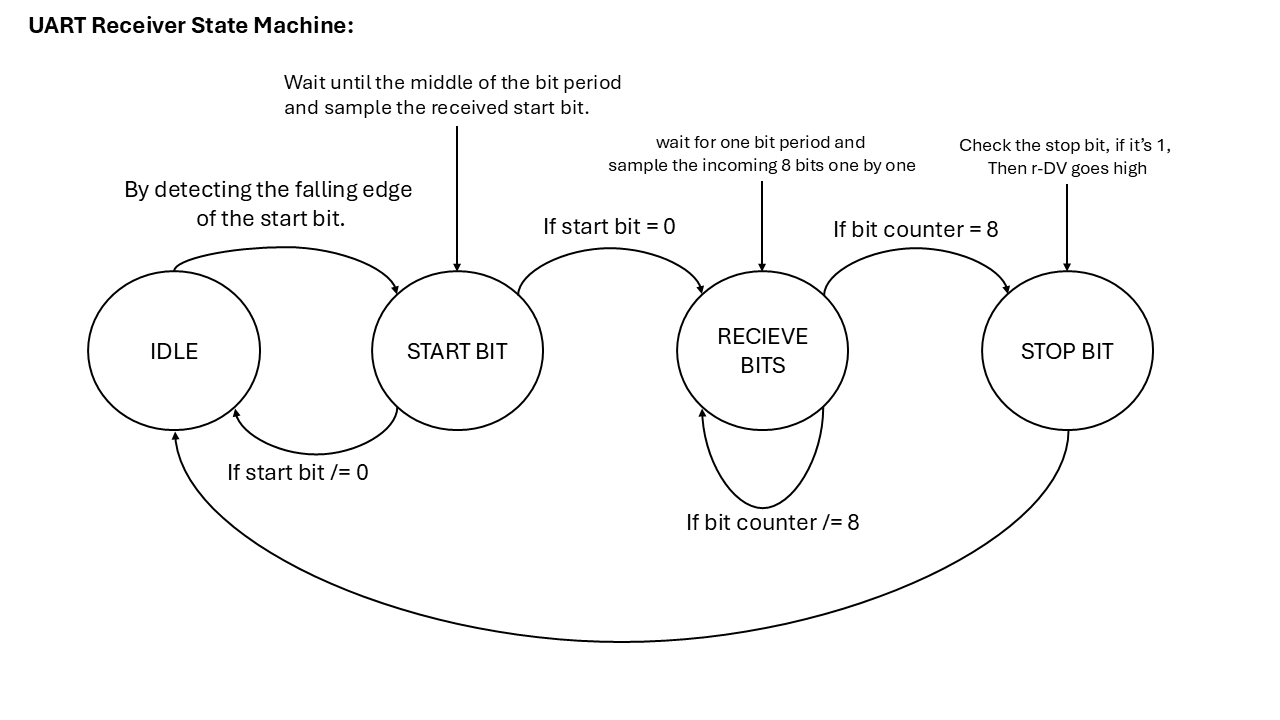
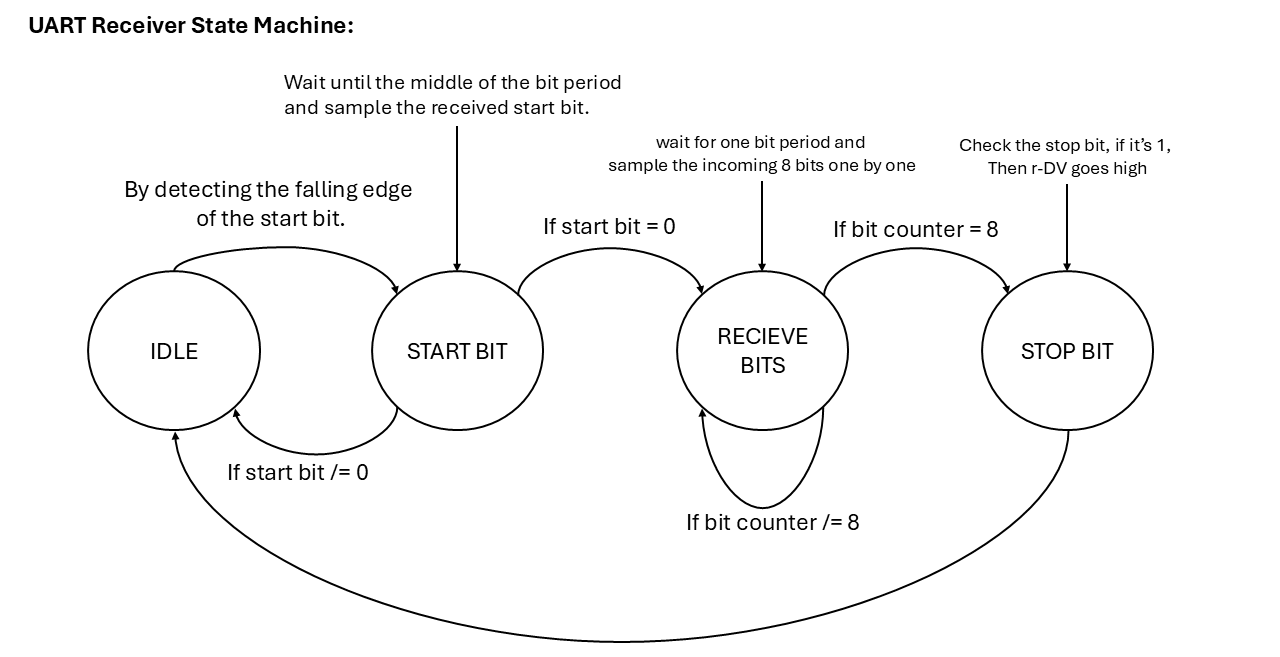
add syn files, pinout table and LICENSE

diff --git a/README.md b/README.md
@@ -14,7 +14,7 @@ The primary goal of this project is to create an interactive musical system. Whe
 
 ## 2. Module Descriptions
 
-### **UART_RX (Universal Asynchronous Receiver/Transmitter)**
+### **UART_RX (Universal Asynchronous Receiver)**
 This is the entry point of the system. It receives 8 bits of serial data, one start bit, and one stop bit. It uses a generic called `g_CLKS_PER_BIT` to match the FPGA’s internal clock (50MHz) to the desired baud rate (e.g., 115200). Once a complete character is received, it triggers a "Data Valid" signal (`o_data_DV`) to let the rest of the system know a new character is ready.  
   
 ![UART FSM](https://github.com/NazaninAzhdari/i2s-audio-engine/blob/main/doc/diagram/UART_FSM.PNG)  
@@ -23,7 +23,7 @@ This is the entry point of the system. It receives 8 bits of serial data, one st
 This module acts as a translator. It takes the 8-bit ASCII code from the UART receiver and maps it to 26 different output ports (`o_key_a` through `o_key_z`). This allows the system to recognize which letter was typed and trigger the corresponding musical response.
 
 ### **melody_pack**
-This is a VHDL package that provides a specialized data type called `t_tone_array`. This array allows the system to store a flexible list of tone frequencies, making it easier to manage the "library" of sounds the engine can produce.
+This is my custom package that provides a specialized data type called `t_tone_array`. This array allows the system to store a flexible list of tone frequencies, making it easier to manage the "library" of sounds the engine can produce.
 
 ### **melody_gen (Melody Generator)**
 This is the heart of the sound production. It generates audio samples (24-bit resolution) by toggling between positive and negative amplitudes (`AMP_POS` and `AMP_NEG`) to create a digital wave. It uses the `LRCLK` (Left-Right Clock) as a reference to ensure the notes are played at the correct frequency and for the correct duration.
@@ -33,7 +33,7 @@ To hear the sound, the digital samples must be sent to an audio codec. This modu
 *   **MCLK (Master Clock):** 12.5 MHz for the hardware's internal timing.
 *   **BCLK (Bit Clock):** 3.125 MHz to time each individual bit of data.
 *   **LRCLK (Left-Right Clock):** 48.828 kHz, which determines the audio sample rate.
-It serializes the 24-bit samples into a continuous stream of data for the audio hardware.  
+It serializes the 32-bit samples into a continuous stream of data for the audio hardware.  
 
 ![I2S slide1](https://github.com/NazaninAzhdari/i2s-audio-engine/blob/main/doc/diagram/I2S_Slide1.PNG)  
 ---
@@ -47,9 +47,10 @@ This is the top-level entity that connects all the modules mentioned above. It h
 ## 3. Setup Guide
 
 ### **Verification:** 
-You can use the provided testbenches (`UART_RX_TB` and `i2s_tx_TB`) in your desired simulator(I have used Isim) before loading the design onto the hardware to verify that the timing and data streams are correct.
+You can use the provided testbenches (`UART_RX_TB` and `i2s_tx_TB`) in your desired simulator(I have used Isim to write and simulate them) before loading the design onto the hardware to verify that the timing and data streams are correct.
 ### **Serial Settings:** 
-Configure your PC's serial terminal (like PuTTY or Tera Term) to match the `g_CLKS_PER_BIT` setting in the `UART_RX` module (typically 115200 baud).  
+Configure your PC's serial terminal (I used PuTTY) to match the `g_CLKS_PER_BIT` setting in the `UART_RX` module (typically 115200 baud).  
 ![com configuration](https://github.com/NazaninAzhdari/i2s-audio-engine/blob/main/doc/diagram/COM_configuration.png)
 ### **Hardware Deployment:** 
-This VHDL audio engine has been tested on the Cyclone V GX FPGA, to see the pinout table click here:
+This audio engine has been tested on the Cyclone V GX FPGA, to see the pinout table click on link below:  
+[Click here to open the Pinout-Table.CSV](https://github.com/NazaninAzhdari/i2s-audio-engine/blob/main/doc/pinout/i2s_audio_engine_pinout.csv)  